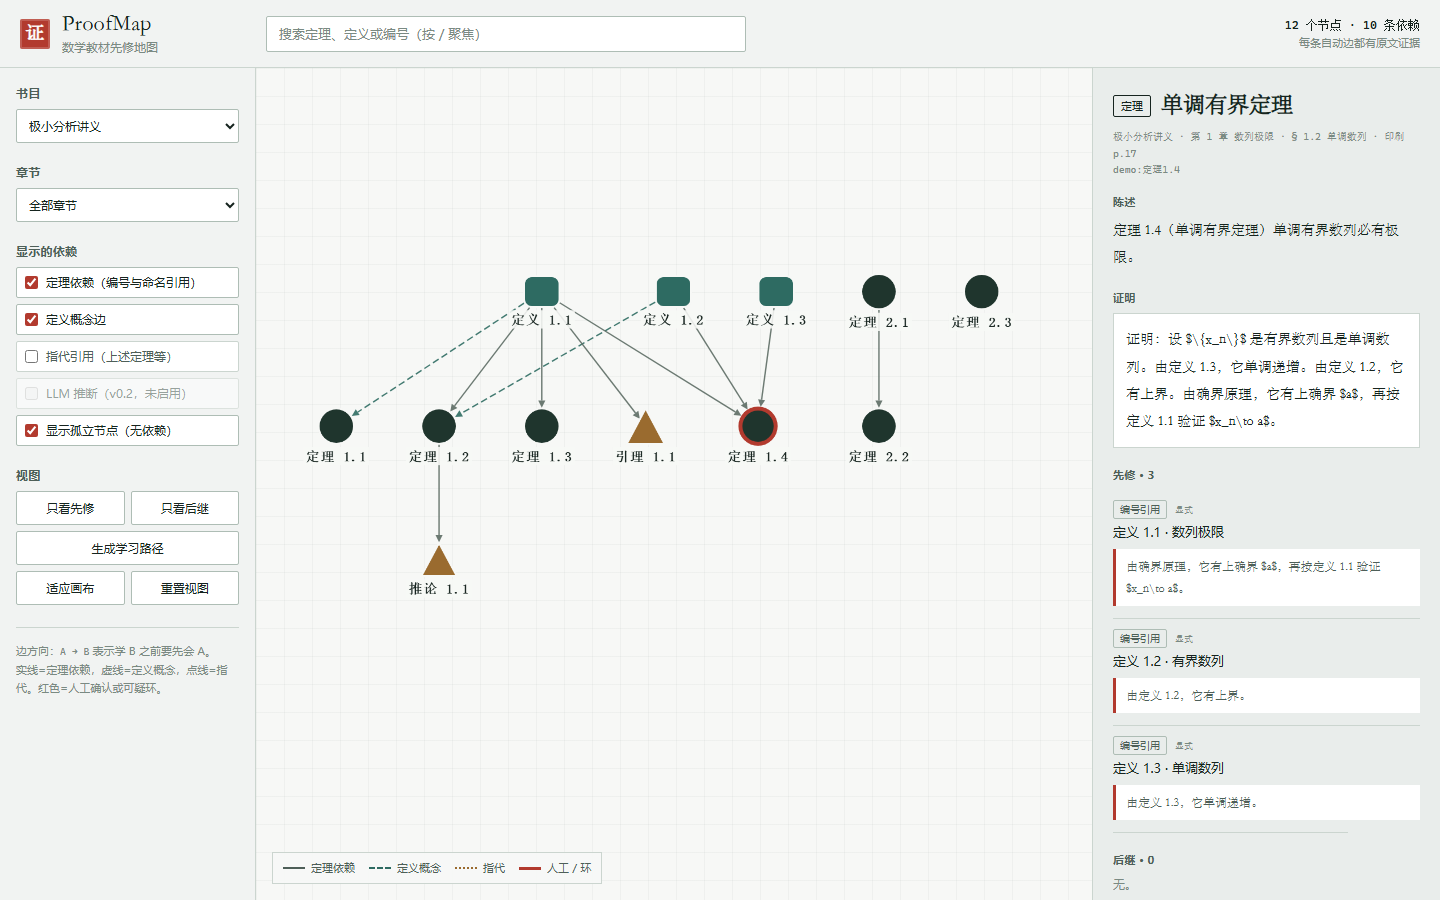
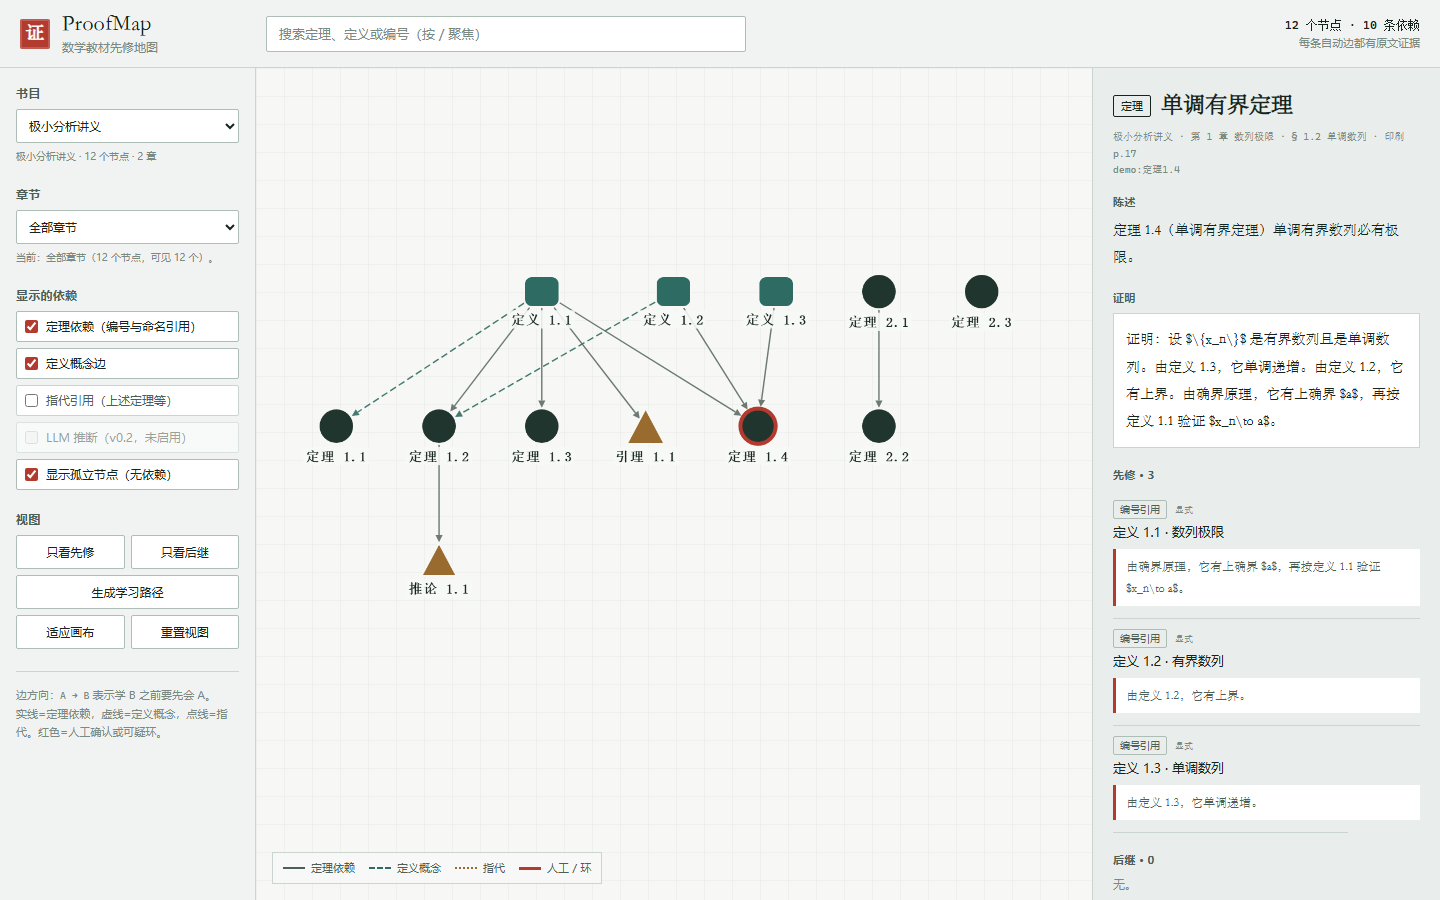
docs: clarify demo vs full local graph and show coverage

Changed region(s): [[0.0, 0.1556, 0.1562, 0.84]]

diff --git a/proofmap/render/template.html b/proofmap/render/template.html
@@ -62,6 +62,7 @@ header{height:68px;flex:0 0 auto;display:flex;align-items:center;gap:22px;paddin
 .btn[aria-pressed="true"]{background:var(--ink);border-color:var(--ink);color:var(--paper)}
 .btn:focus-visible,.select:focus-visible,.chip:focus-within{outline:2px solid var(--seal);outline-offset:1px}
 .btn.wide{grid-column:1 / -1}
+.scope-note{margin:6px 0 0;font-size:10px;line-height:1.6;color:var(--muted)}
 .sidebar-note{margin-top:22px;padding-top:14px;border-top:1px solid var(--line);font-size:11px;line-height:1.7;color:var(--muted)}
 .sidebar-note code{font-family:var(--mono);font-size:10px}
 .graph-wrap{position:relative;min-width:0;min-height:0;background-color:var(--canvas);background-image:linear-gradient(rgba(22,36,31,.035) 1px,transparent 1px),linear-gradient(90deg,rgba(22,36,31,.035) 1px,transparent 1px);background-size:28px 28px;overflow:hidden}
@@ -152,10 +153,12 @@ header{height:68px;flex:0 0 auto;display:flex;align-items:center;gap:22px;paddin
     <section class="side-section">
       <h2>书目</h2>
       <select id="book-select" class="select" aria-label="选择书目"></select>
+      <div id="book-scope" class="scope-note"></div>
     </section>
     <section class="side-section">
       <h2>章节</h2>
       <select id="chapter-select" class="select" aria-label="选择章节"></select>
+      <div id="chapter-scope" class="scope-note"></div>
     </section>
     <section class="side-section">
       <h2>显示的依赖</h2>
@@ -402,6 +405,8 @@ header{height:68px;flex:0 0 auto;display:flex;align-items:center;gap:22px;paddin
 
   const bookSelect = document.getElementById("book-select");
   const chapterSelect = document.getElementById("chapter-select");
+  const bookScope = document.getElementById("book-scope");
+  const chapterScope = document.getElementById("chapter-scope");
   const detail = document.getElementById("detail");
   const counts = document.getElementById("counts");
   const ruleNote = document.getElementById("rule-note");
@@ -432,7 +437,7 @@ header{height:68px;flex:0 0 auto;display:flex;align-items:center;gap:22px;paddin
   function populateChapters(preferred) {
     chapterSelect.innerHTML = "";
     const inBook = rawNodes.filter(n => n.book_id === state.book);
-    const chapters = [...new Set(inBook.map(n => n.chapter))];
+    const chapters = [...new Set(inBook.map(n => n.chapter).filter(Boolean))];
     chapterSelect.append(new Option("全部章节", "all"));
     chapters.forEach(ch => chapterSelect.append(new Option(ch, ch)));
     if (preferred) {
@@ -441,12 +446,12 @@ header{height:68px;flex:0 0 auto;display:flex;align-items:center;gap:22px;paddin
       state.chapter = "all";
     } else {
       const chapterCounts = new Map();
-      inBook.forEach(n => chapterCounts.set(n.chapter, (chapterCounts.get(n.chapter) || 0) + 1));
+      inBook.filter(n => n.chapter).forEach(n => chapterCounts.set(n.chapter, (chapterCounts.get(n.chapter) || 0) + 1));
       const chapterEdges = new Map();
       edges.forEach(edge => {
         const source = nodeById.get(edge.from);
         const target = nodeById.get(edge.to);
-        if (source && target && source.book_id === state.book && source.chapter === target.chapter) {
+        if (source && target && source.book_id === state.book && source.chapter === target.chapter && source.chapter) {
           chapterEdges.set(source.chapter, (chapterEdges.get(source.chapter) || 0) + 1);
         }
       });
@@ -458,6 +463,25 @@ header{height:68px;flex:0 0 auto;display:flex;align-items:center;gap:22px;paddin
       state.chapter = densest ? densest[0] : "all";
     }
     chapterSelect.value = state.chapter;
+    updateScopeNotes();
+  }
+
+  function updateScopeNotes() {
+    const inBook = rawNodes.filter(n => n.book_id === state.book);
+    const chapterCount = new Set(inBook.map(n => n.chapter).filter(Boolean)).size;
+    if (!state.book) {
+      bookScope.textContent = "没有数据。";
+      chapterScope.textContent = "";
+      return;
+    }
+    const visibleCount = cy.nodes().filter(node => !node.hasClass("filtered")).length;
+    bookScope.textContent = `${bookName(state.book)} · ${inBook.length} 个节点 · ${chapterCount} 章`;
+    if (state.chapter === "all") {
+      chapterScope.textContent = `当前：全部章节（${inBook.length} 个节点，可见 ${visibleCount} 个）。`;
+    } else {
+      const count = inBook.filter(n => n.chapter === state.chapter).length;
+      chapterScope.textContent = `当前：${state.chapter}（${count} 个节点，可见 ${visibleCount} 个）。切到“全部章节”查看全书。`;
+    }
   }
 
   function updateCounts() {
@@ -561,6 +585,7 @@ header{height:68px;flex:0 0 auto;display:flex;align-items:center;gap:22px;paddin
     syncSelectionVisibility();
     refreshVisuals();
     updateCounts();
+    updateScopeNotes();
   }
 
   function chooseLayout(visible) {

diff --git a/docs/index.html b/docs/index.html
@@ -62,6 +62,7 @@ header{height:68px;flex:0 0 auto;display:flex;align-items:center;gap:22px;paddin
 .btn[aria-pressed="true"]{background:var(--ink);border-color:var(--ink);color:var(--paper)}
 .btn:focus-visible,.select:focus-visible,.chip:focus-within{outline:2px solid var(--seal);outline-offset:1px}
 .btn.wide{grid-column:1 / -1}
+.scope-note{margin:6px 0 0;font-size:10px;line-height:1.6;color:var(--muted)}
 .sidebar-note{margin-top:22px;padding-top:14px;border-top:1px solid var(--line);font-size:11px;line-height:1.7;color:var(--muted)}
 .sidebar-note code{font-family:var(--mono);font-size:10px}
 .graph-wrap{position:relative;min-width:0;min-height:0;background-color:var(--canvas);background-image:linear-gradient(rgba(22,36,31,.035) 1px,transparent 1px),linear-gradient(90deg,rgba(22,36,31,.035) 1px,transparent 1px);background-size:28px 28px;overflow:hidden}
@@ -152,10 +153,12 @@ header{height:68px;flex:0 0 auto;display:flex;align-items:center;gap:22px;paddin
     <section class="side-section">
       <h2>书目</h2>
       <select id="book-select" class="select" aria-label="选择书目"></select>
+      <div id="book-scope" class="scope-note"></div>
     </section>
     <section class="side-section">
       <h2>章节</h2>
       <select id="chapter-select" class="select" aria-label="选择章节"></select>
+      <div id="chapter-scope" class="scope-note"></div>
     </section>
     <section class="side-section">
       <h2>显示的依赖</h2>
@@ -4639,6 +4642,8 @@ module.exports = __WEBPACK_EXTERNAL_MODULE__4__;
 
   const bookSelect = document.getElementById("book-select");
   const chapterSelect = document.getElementById("chapter-select");
+  const bookScope = document.getElementById("book-scope");
+  const chapterScope = document.getElementById("chapter-scope");
   const detail = document.getElementById("detail");
   const counts = document.getElementById("counts");
   const ruleNote = document.getElementById("rule-note");
@@ -4669,7 +4674,7 @@ module.exports = __WEBPACK_EXTERNAL_MODULE__4__;
   function populateChapters(preferred) {
     chapterSelect.innerHTML = "";
     const inBook = rawNodes.filter(n => n.book_id === state.book);
-    const chapters = [...new Set(inBook.map(n => n.chapter))];
+    const chapters = [...new Set(inBook.map(n => n.chapter).filter(Boolean))];
     chapterSelect.append(new Option("全部章节", "all"));
     chapters.forEach(ch => chapterSelect.append(new Option(ch, ch)));
     if (preferred) {
@@ -4678,12 +4683,12 @@ module.exports = __WEBPACK_EXTERNAL_MODULE__4__;
       state.chapter = "all";
     } else {
       const chapterCounts = new Map();
-      inBook.forEach(n => chapterCounts.set(n.chapter, (chapterCounts.get(n.chapter) || 0) + 1));
+      inBook.filter(n => n.chapter).forEach(n => chapterCounts.set(n.chapter, (chapterCounts.get(n.chapter) || 0) + 1));
       const chapterEdges = new Map();
       edges.forEach(edge => {
         const source = nodeById.get(edge.from);
         const target = nodeById.get(edge.to);
-        if (source && target && source.book_id === state.book && source.chapter === target.chapter) {
+        if (source && target && source.book_id === state.book && source.chapter === target.chapter && source.chapter) {
           chapterEdges.set(source.chapter, (chapterEdges.get(source.chapter) || 0) + 1);
         }
       });
@@ -4695,6 +4700,25 @@ module.exports = __WEBPACK_EXTERNAL_MODULE__4__;
       state.chapter = densest ? densest[0] : "all";
     }
     chapterSelect.value = state.chapter;
+    updateScopeNotes();
+  }
+
+  function updateScopeNotes() {
+    const inBook = rawNodes.filter(n => n.book_id === state.book);
+    const chapterCount = new Set(inBook.map(n => n.chapter).filter(Boolean)).size;
+    if (!state.book) {
+      bookScope.textContent = "没有数据。";
+      chapterScope.textContent = "";
+      return;
+    }
+    const visibleCount = cy.nodes().filter(node => !node.hasClass("filtered")).length;
+    bookScope.textContent = `${bookName(state.book)} · ${inBook.length} 个节点 · ${chapterCount} 章`;
+    if (state.chapter === "all") {
+      chapterScope.textContent = `当前：全部章节（${inBook.length} 个节点，可见 ${visibleCount} 个）。`;
+    } else {
+      const count = inBook.filter(n => n.chapter === state.chapter).length;
+      chapterScope.textContent = `当前：${state.chapter}（${count} 个节点，可见 ${visibleCount} 个）。切到“全部章节”查看全书。`;
+    }
   }
 
   function updateCounts() {
@@ -4798,6 +4822,7 @@ module.exports = __WEBPACK_EXTERNAL_MODULE__4__;
     syncSelectionVisibility();
     refreshVisuals();
     updateCounts();
+    updateScopeNotes();
   }
 
   function chooseLayout(visible) {

diff --git a/README.md b/README.md
@@ -4,6 +4,8 @@
 
 [在线 demo](https://nddcv1.github.io/proofmap/) · [设计文档](docs/superpowers/specs/2026-11-01-proofmap-design.md)
 
+> **在线 demo 只有两章，是因为它用的是仓库自带的合成小语料**（12 个节点），只用于演示交互和证据面板。完整的数学分析图不随公开仓库上传：教材原文和私人笔记有版权与隐私限制。用本地 math-kb 数据运行构建命令，就能看到数分上 9 章、数分下 8 章以及线代等全部内容。
+
 ![ProofMap demo](docs/screenshot.png)
 
 ## 它做什么
@@ -87,7 +89,8 @@ Demo（`examples/demo`，合成数据）：
 
 本地 math-kb 全量基线（5 本书，未提交数据）：
 
-- 545 个节点，151 条边，0 个环。
+- 覆盖 29 章、545 个节点、151 条边、0 个环。
+- 数学分析上：9 章，143 个节点；数学分析下：8 章，214 个节点；线性代数：9 章，185 个节点；另有两本辅助讲义。
 - 475 个证明：386 已归属，55 歧义，34 未归属。
 - 84 条未解析/歧义引用，全部写入 `edge_audit.md`。
 
